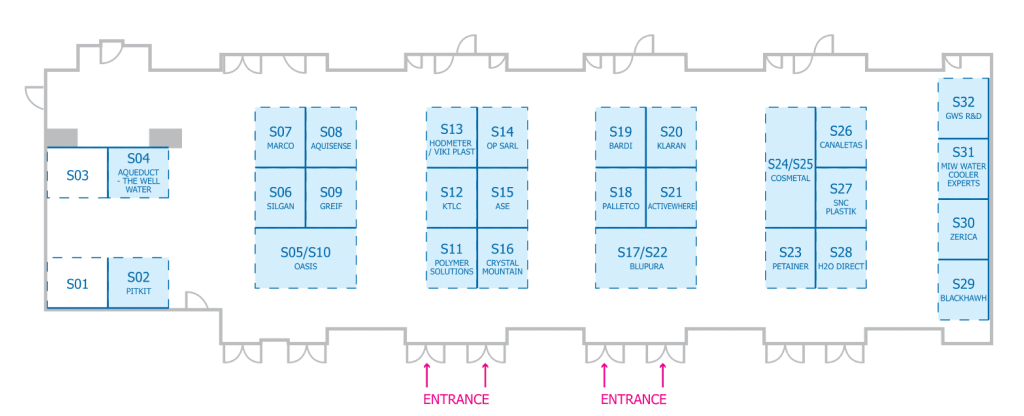
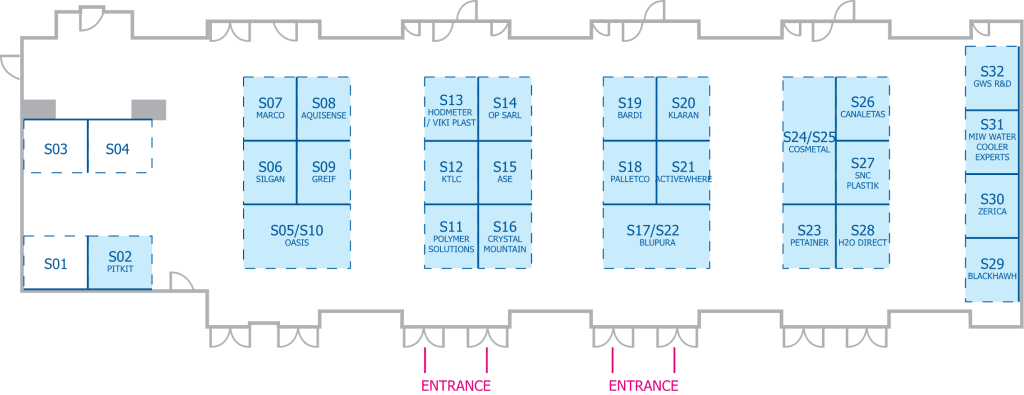
delete from floor plan & custom select

Changed region(s): [[0.0, 0.0, 1.0, 1.0], [0.5, 0.7595, 0.6875, 0.9114], [0.5625, 0.9418, 0.6562, 1.0]]

diff --git a/src/templates/trade-fair.js b/src/templates/trade-fair.js
@@ -27,7 +27,7 @@ export const TradeFairTemplate = ({ title, tradefair, fees }) => {
         <div className="plan-nr md:grid grid-cols-2 gap-8 mb-12">
           <div className="grid grid-cols-[108px_1fr] list">
             <span className="first">S21</span><span className="first">ACTIVEWHERE TECNOLOGIAS DE INFORMAÇÃO LDA</span>
-            <span className="">S04</span><span>AQUEDUCT - THE WELL WATER</span>
+           
             <span className="">S08</span><span>AQUISENSE TECHNOLOGIES</span>
             <span className="">S15</span><span>ASE PACKAGING SOLUTIONS GMBH</span>
             <span className="">S19</span><span>BARDI</span>
@@ -40,12 +40,13 @@ export const TradeFairTemplate = ({ title, tradefair, fees }) => {
             <span className="">S32</span><span >GWS R&D</span>
             <span className="">S28</span><span>H2O DIRECT LIMITED</span>
             <span className="">S13</span><span>HODMETER</span>
-            <span className="last">S20</span><span className="last">KLARAN BY CRYSTAL IS</span>
+            <span >S20</span><span >KLARAN BY CRYSTAL IS</span>
+            <span className="last">S12</span><span  className="last">KTLC EUROPE LTD</span>
             
           </div>
           <div className="grid grid-cols-[108px_1fr] list">
-            <span className="first">S12</span><span  className="first">KTLC EUROPE LTD</span>
-            <span className="">S07</span><span>MARCO BEVERAGE SYSTEMS</span>
+            
+            <span className="first">S07</span><span className="first">MARCO BEVERAGE SYSTEMS</span>
             <span className="">S31</span><span>MIW WATER COOLER EXPERTS</span>
             <span className="">S05/10</span><span>OASIS WATER FRIENDLY SOLUTIONS</span>
             <span className="">S14</span><span>OP SARL</span>
@@ -59,6 +60,7 @@ export const TradeFairTemplate = ({ title, tradefair, fees }) => {
             <span className="">S30</span><span>ZERICA SRL</span>
             <span className="">S01</span><span></span>
             <span className="">S03</span><span></span>
+            <span className="">S04</span><span></span>
             
             
           </div>
@@ -184,20 +186,37 @@ export const TradeFairTemplate = ({ title, tradefair, fees }) => {
                 <label className="flex flex-col">
                   Website <input type="text" name="website" />
                 </label>
-                <label>
+                <label className="custom-select-wrapper">
+                  <span className="mr-2">PREFFERED STAND NO.:<span className="text-red-600">*</span></span>
+                 {/*  <input type="text" name="stand-no" required /> */}
+                 <div className="custom-select">
+                  <select name="stand-no" required>
+                    <option value="S01">S01</option>
+                    <option value="S03">S03</option>
+                    <option value="S04">S04</option>
+ 
+                  </select>
+                  <svg xmlns="http://www.w3.org/2000/svg" width="16" height="16" fill="currentColor" class="bi bi-arrow-down-short" viewBox="0 0 16 16">
+  <path fill-rule="evenodd" d="M8 4a.5.5 0 0 1 .5.5v5.793l2.146-2.147a.5.5 0 0 1 .708.708l-3 3a.5.5 0 0 1-.708 0l-3-3a.5.5 0 1 1 .708-.708L7.5 10.293V4.5A.5.5 0 0 1 8 4z"/>
+</svg>
+                  </div>
+                </label>
+                <label className="custom-select-wrapper">
                   <span className="mr-2">AVAILABLE EXHIBITION STANDS:<span className="text-red-600">*</span></span>
+                  <div className="custom-select">
                   <select name="standsize">
                     <option value="7,5 m2 table top">7,5 m&sup2; table top</option>
 
-                    <option value="15 m2 table top">15 m&sup2; table top</option>
+                    <option disabled value="15 m2 table top">15 m&sup2; table top</option>
 
-                    <option value="22,5 m2 table top">22,5 m&sup2; table top</option>
+                    <option disabled value="22,5 m2 table top">22,5 m&sup2; table top</option>
                   </select>
+                  <svg xmlns="http://www.w3.org/2000/svg" width="16" height="16" fill="currentColor" class="bi bi-arrow-down-short" viewBox="0 0 16 16">
+  <path fill-rule="evenodd" d="M8 4a.5.5 0 0 1 .5.5v5.793l2.146-2.147a.5.5 0 0 1 .708.708l-3 3a.5.5 0 0 1-.708 0l-3-3a.5.5 0 1 1 .708-.708L7.5 10.293V4.5A.5.5 0 0 1 8 4z"/>
+</svg>
+</div>
                 </label>
-                <label>
-                  <span className="mr-2">PREFFERED STAND NO.:<span className="text-red-600">*</span></span>
-                  <input type="text" name="stand-no" required />
-                </label>
+                
               </div>
               <div>
                 <h3 className="font-bold my-4 text-2xl">

diff --git a/src/styles/global.css b/src/styles/global.css
@@ -198,6 +198,30 @@ label {
   align-items: center;
   justify-content: center;
 }
+.custom-select {
+  position: relative;
+  background: #f4f4f4;
+  border-color: #f4f4f4;
+}
+
+.custom-select svg {
+  position: absolute;
+    top: 13px;
+    right: 16px;
+    width: 24px;
+    height: 24px;
+}
+
+.custom-select select {
+  position: relative;
+  z-index: 1;
+  background: transparent;
+}
+
+label.custom-select-wrapper {
+  display: flex;
+  align-items: center;
+}
 @media (min-width: 768px) {
   .category-item {
     flex-basis: calc(100% / 3 - 20px);

diff --git a/gatsby-config.js b/gatsby-config.js
@@ -73,7 +73,16 @@ module.exports = {
     },
     "gatsby-plugin-sitemap",
     `gatsby-plugin-image`,
-    "gatsby-plugin-sharp",
+    {
+      resolve: `gatsby-plugin-sharp`,
+      options: {
+        defaults: {
+          formats: [`auto`, `webp`],
+          placeholder: `dominantColor`,
+          quality: 100,
+        },
+      },
+    },
     "gatsby-transformer-sharp",
     {
       resolve: "gatsby-transformer-remark",
